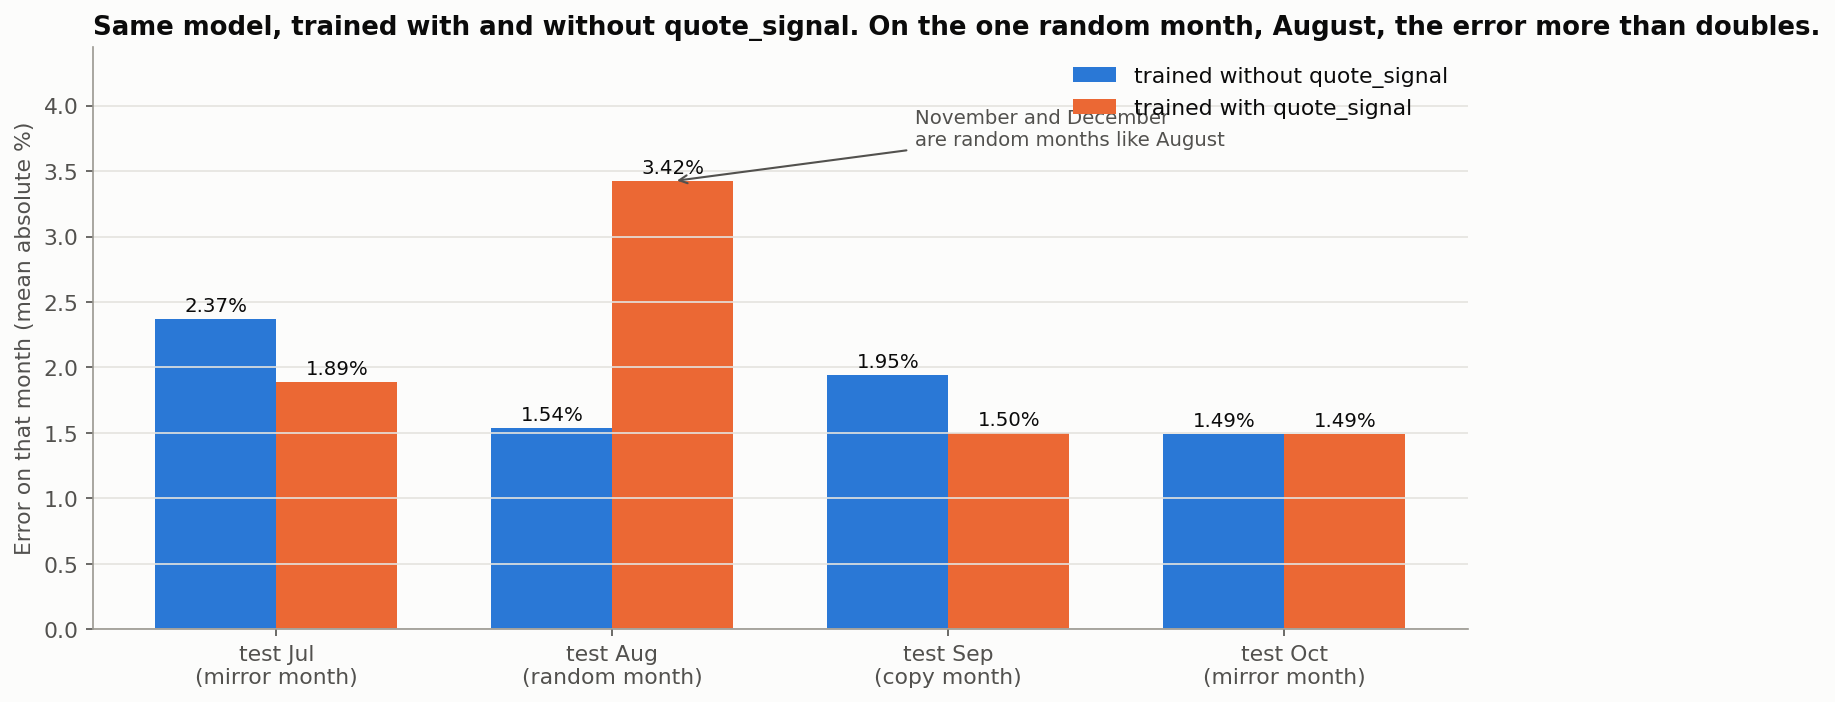
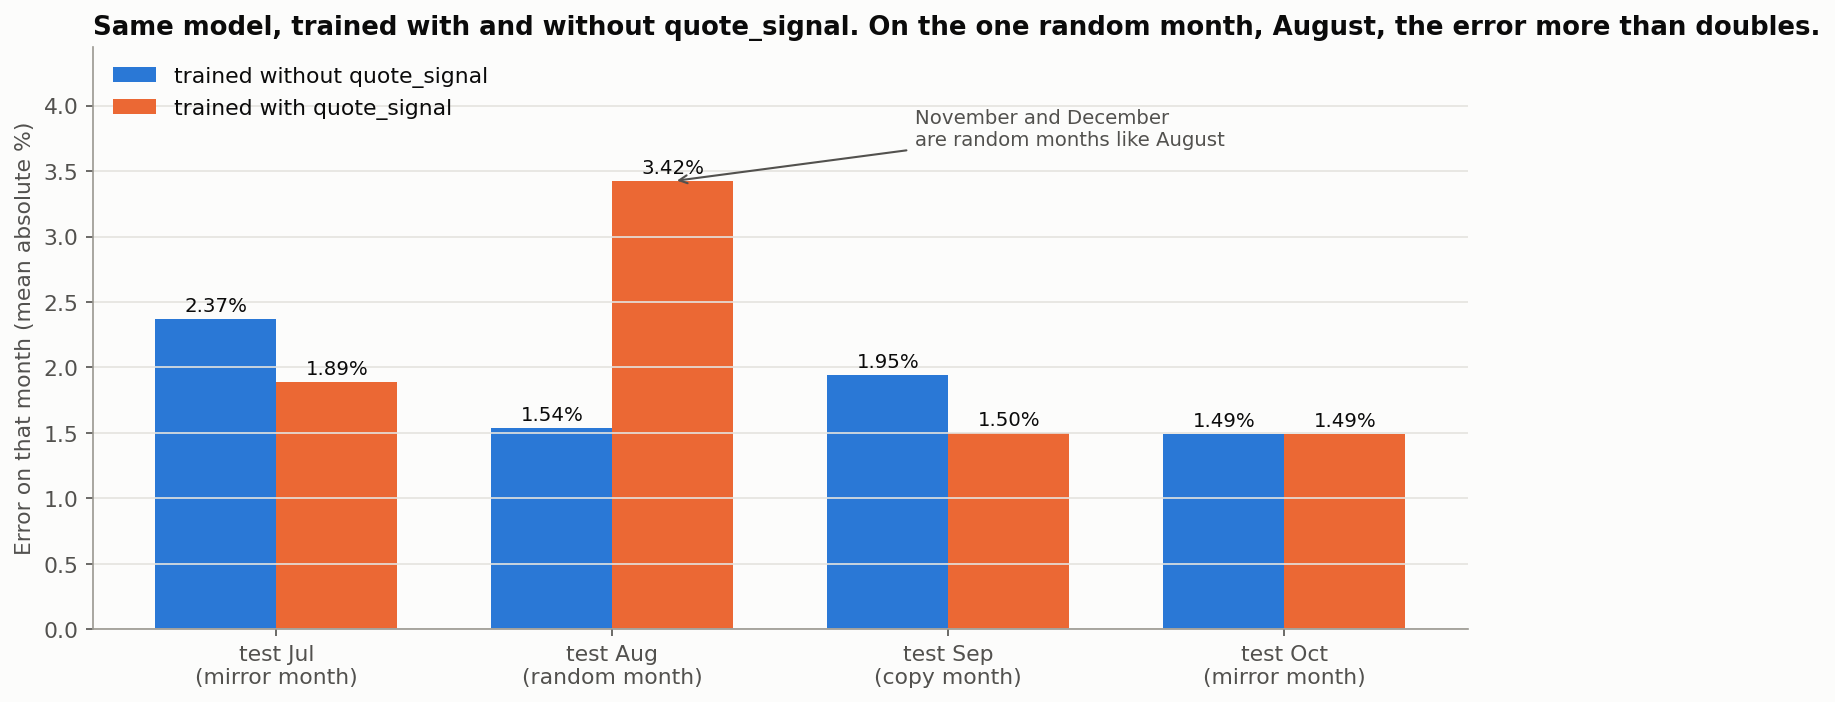
Fix legend overlap on quote_signal chart

Changed region(s): [[0.5591, 0.0897, 0.8076, 0.1795], [0.0621, 0.0897, 0.2796, 0.1795]]

diff --git a/eda/quote_signal_with_without.py b/eda/quote_signal_with_without.py
@@ -34,7 +34,7 @@ for b, val in list(zip(b1, [r[2] for r in rows])) + list(zip(b2, [r[3] for r in 
     ax.text(b.get_x() + b.get_width() / 2, val + 0.06, f"{val:.2f}%", ha="center", fontsize=9.5, color=INK)
 ax.set(xticks=x, xticklabels=[f"test {r[0]}\n({r[1]} month)" for r in rows], ylabel="Error on that month (mean absolute %)", ylim=(0, max(r[3] for r in rows) * 1.3),
        title="Same model, trained with and without quote_signal. On the one random month, August, the error more than doubles.")
-ax.grid(axis="x", visible=False); ax.legend(frameon=False, loc="upper right")
+ax.grid(axis="x", visible=False); ax.legend(frameon=False, loc="upper left")
 i = [r[0] for r in rows].index("Aug"); ax.annotate("November and December\nare random months like August", xy=(i + w / 2, rows[i][3]), xytext=(i + 0.9, rows[i][3] * 1.08),
     fontsize=9.5, color=INK2, arrowprops=dict(arrowstyle="->", color=INK2, lw=1))
 fig.tight_layout(); fig.savefig(ROOT / "eda" / "figures" / "19_quote_signal_with_without.png", bbox_inches="tight"); print("wrote 19")
